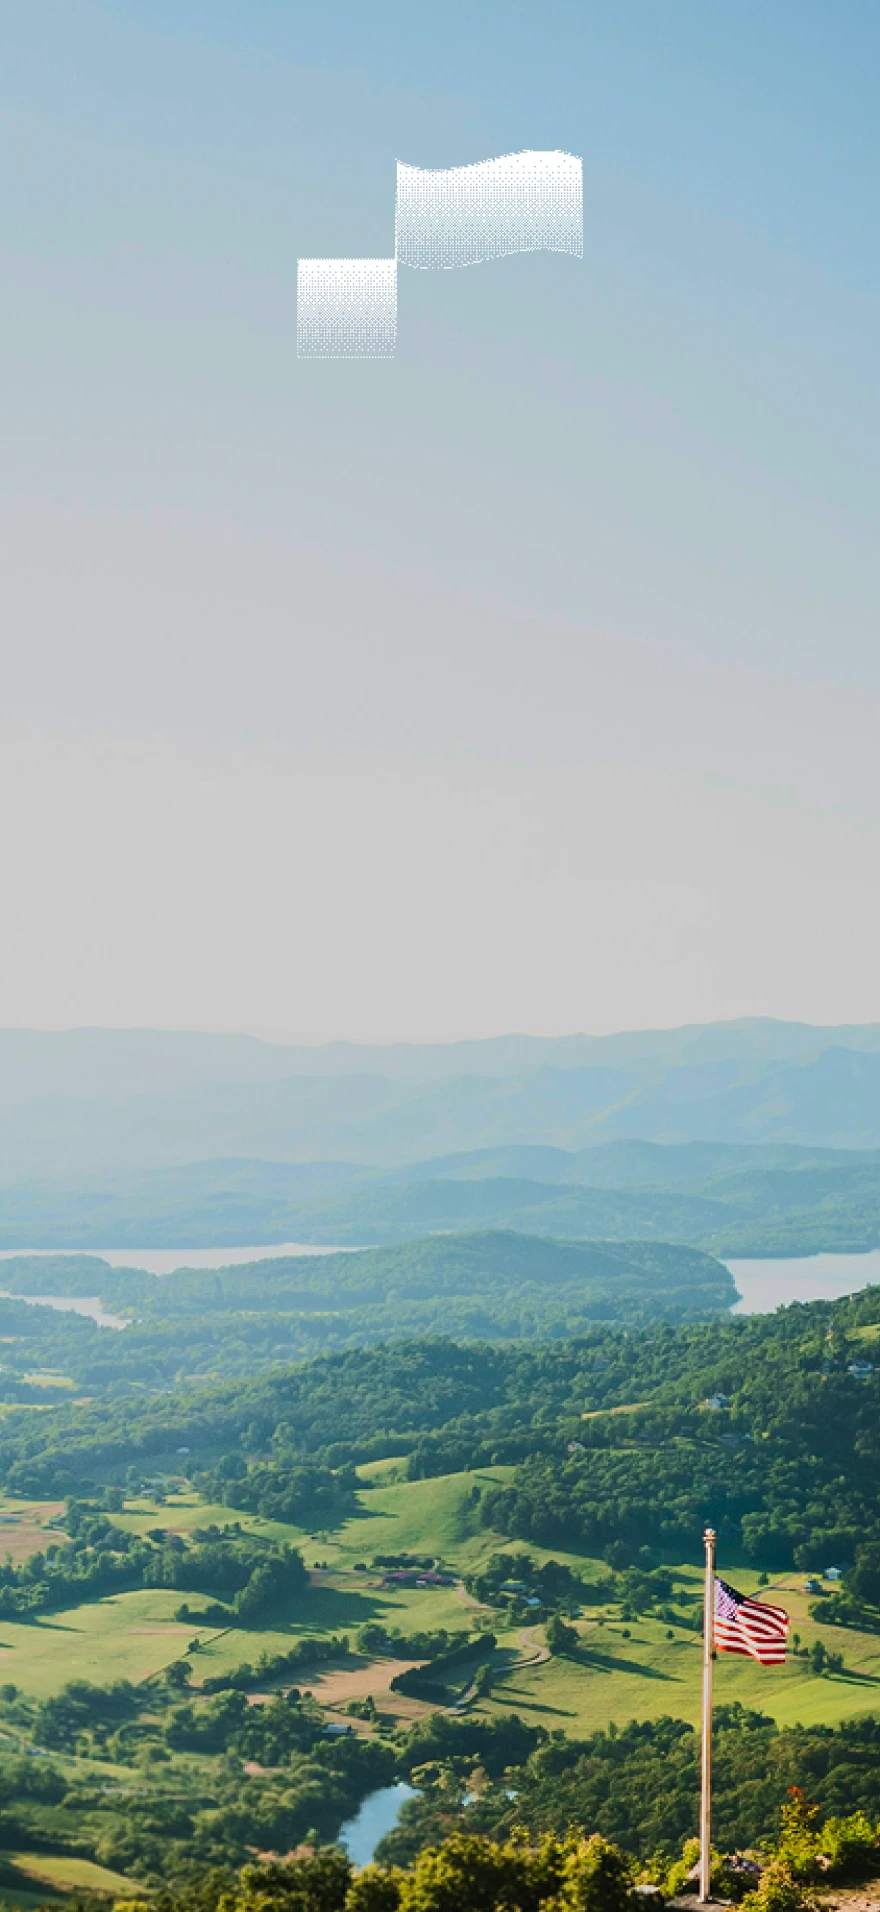
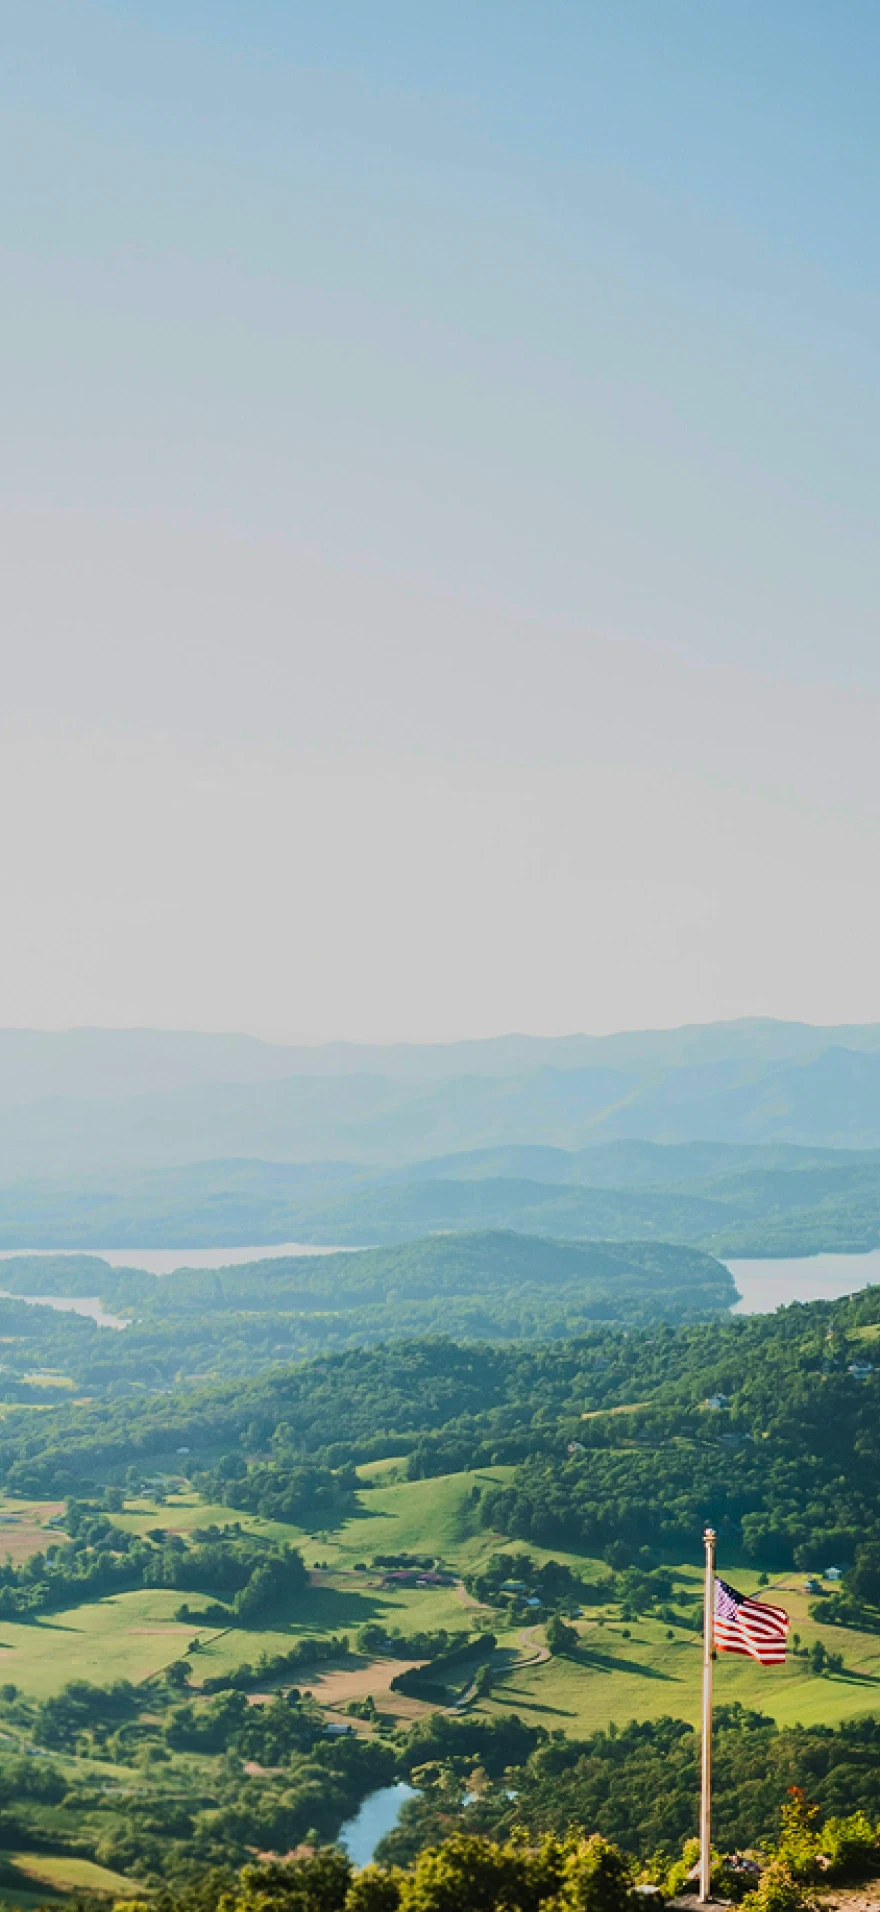
Portal: arrows on the suggestions, a glowing gradient text box; new phone sign-in photo (#6)
- Each portal suggestion starts with the Streamline Ultimate Arrow Right icon.
- The ask box has the suggestions' Hope glow and the AI's gradient ring
  (2px, 3px while you type).
- The phone sign-in uses a new portrait photo: the card on the sky, the US
  flag below it.

Changed region(s): [[0.3375, 0.0617, 0.675, 0.1851]]

diff --git a/src/example-app/portal.tsx b/src/example-app/portal.tsx
@@ -9,6 +9,7 @@ import { cn } from '@/lib/utils';
 import {
   AiChatSparkIcon,
   AlertDiamondIcon,
+  ArrowRightIcon,
   HouseBuildingIcon,
   IdCardIcon,
   LanguageIcon,
@@ -178,7 +179,14 @@ export function SamplePortal() {
               </div>
 
               <div className="flex flex-col items-center gap-3">
-                <div className="flex w-full items-center gap-2 rounded-[3px] border-2 border-transparent bg-soft-white pr-2 text-soft-black focus-within:border-hope">
+                {/* the AI's gradient band round the box, the same masked ai-fill ring as
+                    the suggestion whose turn it is: 2px, 3px while you type */}
+                <div className="group/ask relative flex w-full items-center gap-2 rounded-[3px] border-2 border-transparent bg-soft-white pr-2 text-soft-black shadow-[0_0_14px_rgb(254_175_14/0.55)]">
+                  <span
+                    aria-hidden
+                    className="ai-fill pointer-events-none absolute -inset-[2px] rounded-[3px] p-[2px] [mask:linear-gradient(#000_0_0)_content-box_exclude,linear-gradient(#000_0_0)] group-focus-within/ask:-inset-[3px] group-focus-within/ask:p-[3px]"
+                    style={{ animationDuration: '2s' }}
+                  />
                   <label htmlFor={`${id}-question`} className="sr-only">
                     Your question
                   </label>
@@ -236,7 +244,7 @@ export function SamplePortal() {
                       }}
                       onBlur={() => setHeld(false)}
                       className={cn(
-                        'relative w-full origin-center rounded-[3px] border-[3px] border-transparent px-4 py-2 text-left text-sm font-light text-soft-black transition-[opacity,scale,box-shadow,background-color] duration-300 ease-out outline-none focus-visible:outline-2 focus-visible:outline-offset-2 focus-visible:outline-solid focus-visible:outline-hope motion-reduce:transition-none',
+                        'relative flex w-full origin-center items-center gap-3 rounded-[3px] border-[3px] border-transparent px-4 py-2 text-left text-sm font-light text-soft-black transition-[opacity,scale,box-shadow,background-color] duration-300 ease-out outline-none focus-visible:outline-2 focus-visible:outline-offset-2 focus-visible:outline-solid focus-visible:outline-hope motion-reduce:transition-none',
                         i === turn
                           ? 'scale-100 bg-soft-white opacity-100 shadow-[0_0_14px_rgb(254_175_14/0.55)]'
                           : 'scale-[0.97] bg-soft-white/80 opacity-70',
@@ -249,6 +257,7 @@ export function SamplePortal() {
                           style={{ animationDuration: '2s' }}
                         />
                       )}
+                      <ArrowRightIcon className="size-3.5 shrink-0" />
                       {p}
                     </button>
                   </li>

diff --git a/src/example-app/login.tsx b/src/example-app/login.tsx
@@ -59,8 +59,8 @@ export function SampleLogin() {
   return (
     <div className="relative isolate grid min-h-dvh bg-slate text-foreground md:grid-cols-2">
       {/* a GovWell brand photo, full bleed behind both halves; decorative, so no
-          alt text. Under md a portrait cut (the pixel flag up in the sky, the
-          valley below) replaces the landscape, whose flag the card would cover.
+          alt text. Under md a portrait cut (clear sky up top, the valley and
+          the US flag below) replaces the landscape, whose flag the card would cover.
           The picture is the positioned layer itself, so it (and its <source>)
           takes no grid cell and the card stays in the first column */}
       <picture className="absolute inset-0 -z-10">
@@ -69,9 +69,8 @@ export function SampleLogin() {
       </picture>
 
       {/* from md up the card is centred in the left half, the same space either
-          side of it. On a phone, centred is the band between the portrait's two
-          flags (GovWell's up top, the US flag low on the right), so the card is
-          tighter there to leave both in view. Back and Help sit 24px in from
+          side of it. On a phone the card sits on the portrait's sky and is
+          tighter there, to leave the US flag low on the right in view. Back and Help sit 24px in from
           their edges, the page's gutter on both sides */}
       <main className="relative flex min-h-dvh items-center justify-center px-6 py-20 md:col-start-1 md:row-start-1">
         {/* for the demo only: a real sign-in has nowhere to go back to. A plain

diff --git a/src/example-app/icons.tsx b/src/example-app/icons.tsx
@@ -281,3 +281,12 @@ export function LayoutDashboardIcon(props: IconProps) {
     </StreamlineIcon>
   );
 }
+
+/** Portal suggestions: Streamline Ultimate "Arrow Right" */
+export function ArrowRightIcon(props: IconProps) {
+  return (
+    <StreamlineIcon {...props}>
+      <path d="M23.987 12a2.411 2.411 0 0 0 -0.814 -1.8L11.994 0.361a1.44 1.44 0 0 0 -1.9 2.162l8.637 7.6a0.25 0.25 0 0 1 -0.165 0.437H1.452a1.44 1.44 0 0 0 0 2.88h17.111a0.251 0.251 0 0 1 0.165 0.438l-8.637 7.6a1.44 1.44 0 1 0 1.9 2.161L23.172 13.8a2.409 2.409 0 0 0 0.815 -1.8Z" />
+    </StreamlineIcon>
+  );
+}
